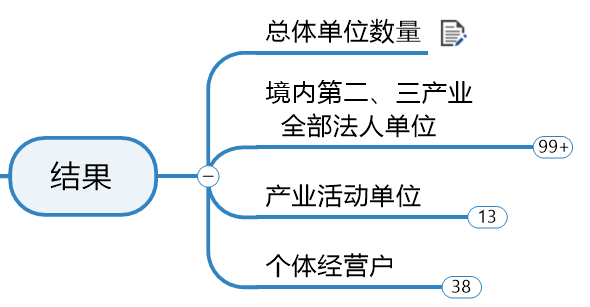
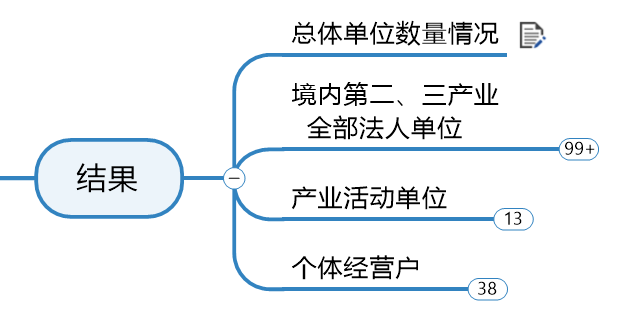
1

Changed region(s): [[0.0, 0.0586, 0.8847, 0.9967], [0.4576, 0.2638, 0.7932, 0.4691], [0.8847, 0.4397, 0.9763, 0.5277]]

diff --git a/Economic_census/Economic_census.md b/Economic_census/Economic_census.md
@@ -4,7 +4,7 @@
 
 ![整体][001]
 
-## 对象
+## 一. 对象
 
 ![对象][002]
 1. 三次产业的划分：
@@ -25,41 +25,39 @@
     * 相对独立地组织生产活动或经营活动；
     * 能提供收入或者支出等相关资料。
 
-## 目的
+## 二. 目的
 
 ![目的][003]
 
-## 结果
+## 三. 结果
 
 ![结果][004]
 
-### 总体单位数量
+### 1.总体单位数量情况
 
 ![总体单位数量][005]
 
-### 产业活动单位
+### 2. 产业活动单位
 
 ![产业活动单位][006]
 
-### 个体经营户
+### 3. 个体经营户
 
 ![个体经营户.单位数量][007]
 ![个体经营户.从业人数][008]
 
-
-### 境内第二、三产业全部法人单位
-
-
-
-
-## 汇报
+### 4. 境内第二、三产业全部法人单位
 
 
 
 
 
 
+## 四. 汇报
 
+![汇报][100]
+
+<!--附件.图片链接-->
 [001]:https://github.com/446020169/Open/raw/master/Economic_census/image/001.jpg
 [002]:https://github.com/446020169/Open/raw/master/Economic_census/image/002.jpg
 [003]:https://github.com/446020169/Open/raw/master/Economic_census/image/003.jpg
@@ -68,3 +66,13 @@
 [006]:https://github.com/446020169/Open/raw/master/Economic_census/image/006.jpg
 [007]:https://github.com/446020169/Open/raw/master/Economic_census/image/007.jpg
 [008]:https://github.com/446020169/Open/raw/master/Economic_census/image/008.jpg
+
+
+
+
+
+
+
+
+
+[100]:https://github.com/446020169/Open/raw/master/Economic_census/image/100.jpg
